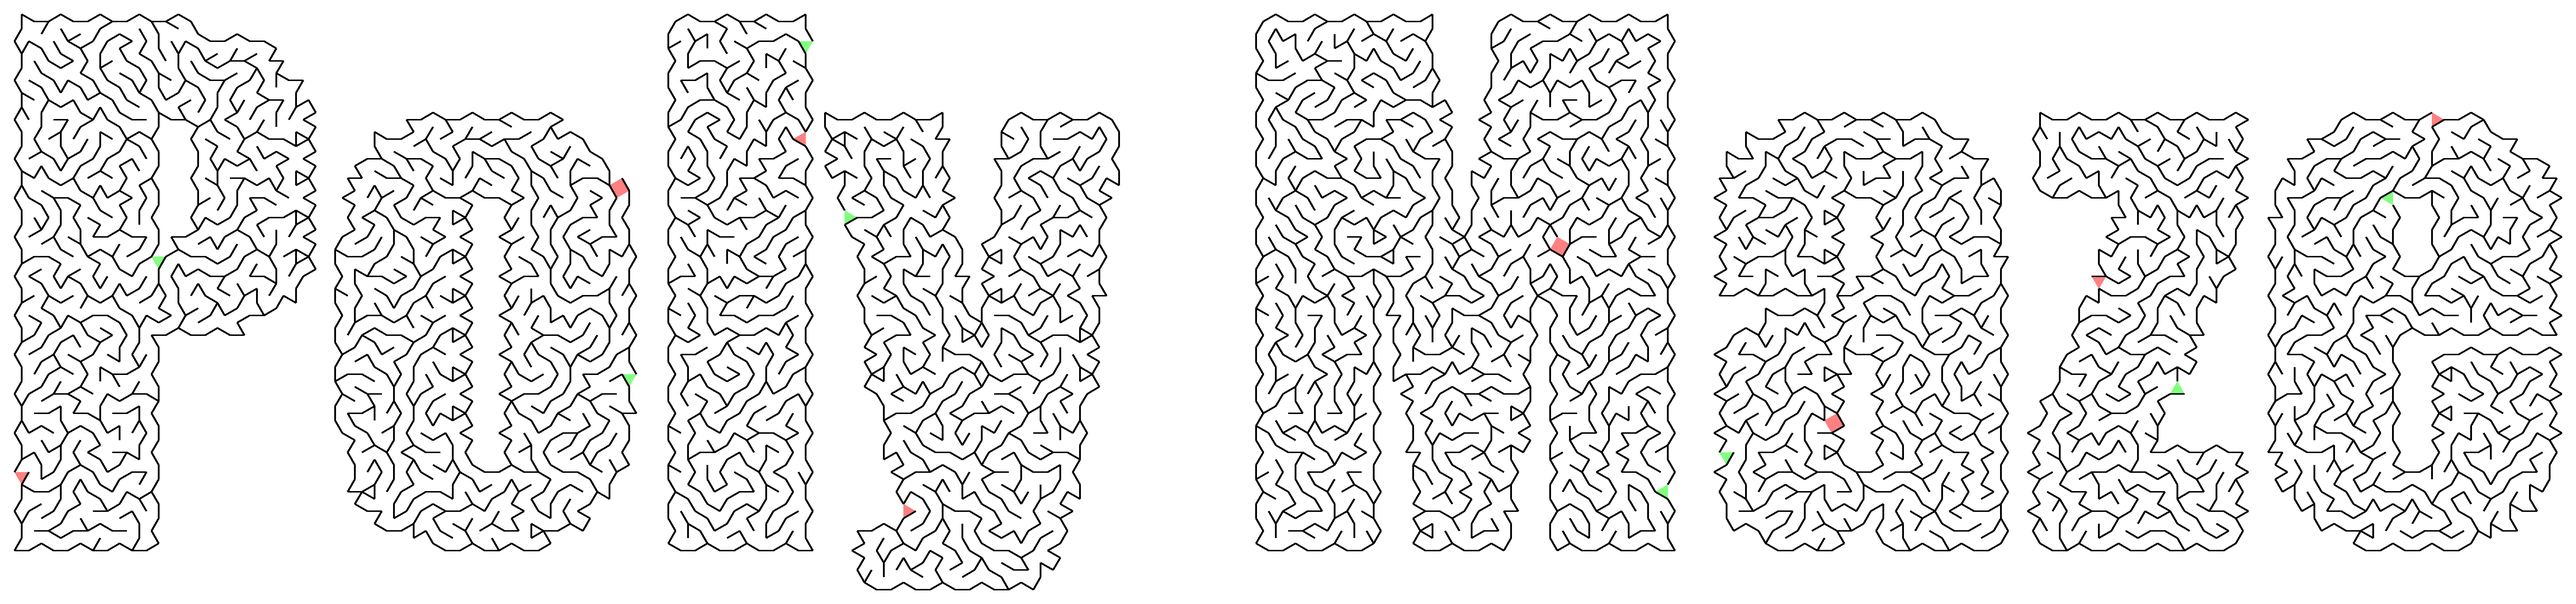
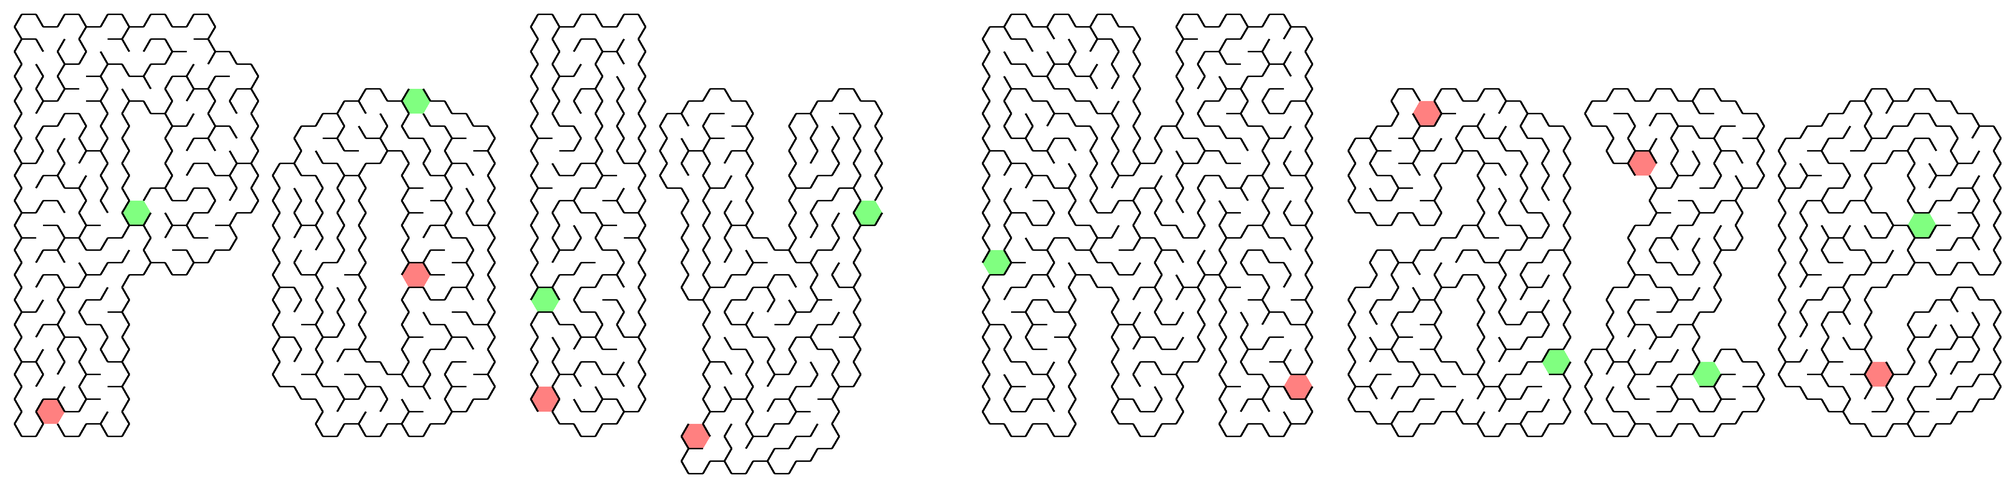
Improved demo to demonstrate levels of complexity explicitly.

Changed region(s): [[0.4671, 0.0308, 0.9964, 0.9251], [0.0, 0.0308, 0.4359, 0.9868]]

diff --git a/demo/demo.py b/demo/demo.py
@@ -5,29 +5,33 @@ import polymaze as pmz
 
 def demo():
     print 'Saving demos:'
-    rectangle_maze()
-    string_maze()
+    basic_string_maze()
+    custom_rectangle_mazes()
 
 
-def string_maze():
+def basic_string_maze():
     s = u'Poly Maze'
     grid = pmz.PolyGrid()
-    grid.create_string(s)
+    grid.create_string(s, complexity=2)
     maze = pmz.Maze(grid)
     filename = 'Demo Normal String.png'
     maze.image().save(filename, format='PNG')
     print filename
 
 
-def rectangle_maze():
-    easy = 1.0
-    close_to_golden_rectangle = 0.625
-    grid = pmz.PolyGrid()
-    grid.create_rectangle(complexity=easy, aspect=close_to_golden_rectangle)
-    maze = pmz.Maze(grid)
-    filename = 'Demo Easy Rectangle.png'
-    maze.image().save(filename, format='PNG')
-    print filename
+def custom_rectangle_mazes():
+    # prepare some custom items
+    aspect_close_to_golden_rectangle = 0.625
+    for i, (ss_name, ss) in enumerate(pmz.SUPERSHAPES_DICT.items()):
+        complexity = i + 1
+        grid = pmz.PolyGrid(supershape=ss)
+        grid.create_rectangle(complexity=complexity,
+                              aspect=aspect_close_to_golden_rectangle)
+        maze = pmz.Maze(grid)
+        filename = 'Demo (complexity {}) ({}).png'.format(complexity,
+                                                          ss_name)
+        maze.image().save(filename, format='PNG')
+        print filename
 
 
 if __name__ == '__main__':
